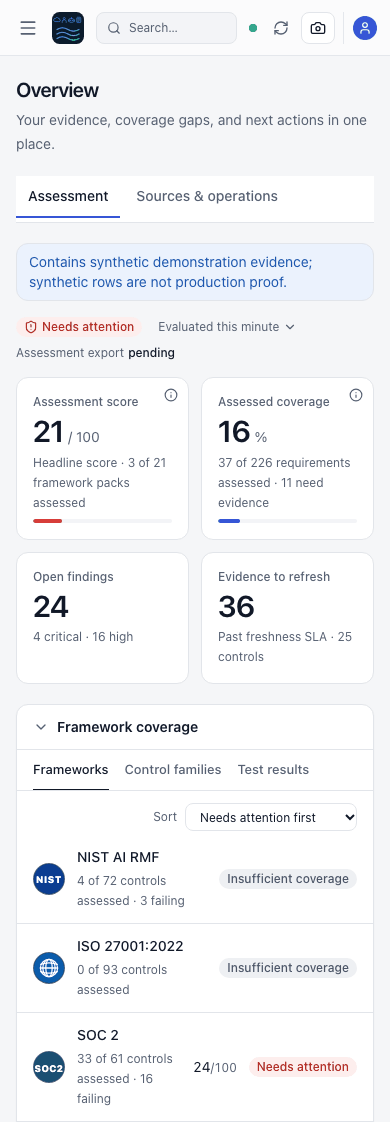
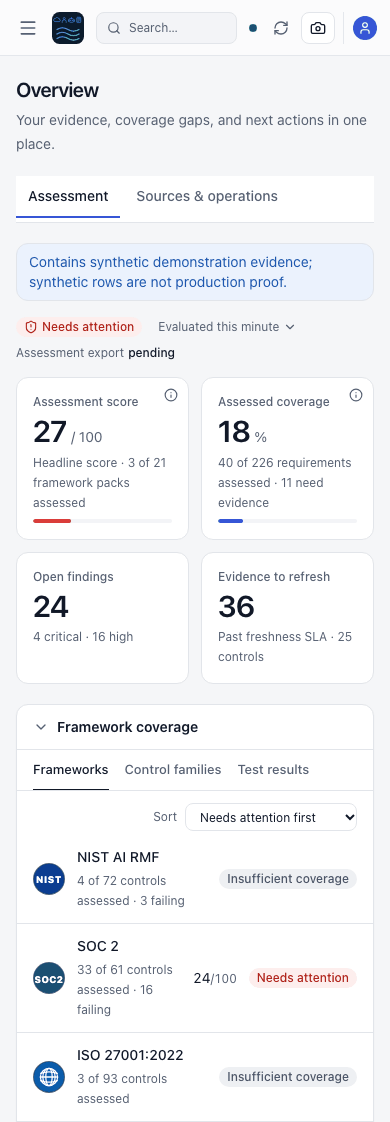
fix(demo): bind golden evidence to reviewed safeguards so the demo reaches attested passes
The golden demo never showed a framework (CCF) pass: no golden event
carried safeguard_ids, so every requirement was not_evaluated or
unmapped and the console read "8 control tests passing - 0 attested".

SOC2-CC6.1 cannot honestly pass: SG-IDENTITY-001 must assess every
observed iam_role asset, and all five golden iam_role assets carry open
high-severity access reviews. Instead, add synthetic ISO 27001 assessor
records for A.5.13, A.5.28 and A.8.17. Each record has the evidence type
its safeguard requires, binds to that requirement's only safeguard
(maintainer reviewed), and sits on the one service asset those
safeguards accept. The records come from the generator, so
`fixtures write-golden` keeps them.

Evaluation rules, safeguard definitions and review states are
unchanged. The demo keeps its failing, stale and unattested controls.

diff --git a/app/web/e2e/control-attestation.spec.ts b/app/web/e2e/control-attestation.spec.ts
@@ -102,6 +102,45 @@ test("framework detail leads with attested passes, not control test passes", asy
   );
 });
 
+// ISO27001-A.5.28 is the opposite case: a fresh assessor record bound to its
+// only safeguard, whose mapping is maintainer reviewed, so it is attested.
+const ATTESTED_ID = "ISO27001-A.5.28";
+
+test("controls page shows a reviewed safeguard pass as attested", async ({
+  page,
+  request,
+}) => {
+  const body = (await (
+    await request.get("/api/v1/controls?limit=500")
+  ).json()) as {
+    data: Array<{
+      control_id: string;
+      status: string;
+      ccf_status: string;
+      reviewed_safeguard_count: number;
+      proposed_safeguard_count: number;
+    }>;
+  };
+  const control = body.data.find((row) => row.control_id === ATTESTED_ID)!;
+  expect(control.status).toBe("pass");
+  expect(control.ccf_status).toBe("pass");
+  expect(control.reviewed_safeguard_count).toBe(1);
+  expect(control.proposed_safeguard_count).toBe(0);
+
+  await page.setViewportSize({ width: 1440, height: 1000 });
+  await page.goto("/console/controls/");
+  await page.getByPlaceholder(/Search by control id/).fill(ATTESTED_ID);
+  const queue = page.getByRole("region", {
+    name: "Latest control test results",
+  });
+  const row = queue.locator("tbody tr").filter({ hasText: ATTESTED_ID });
+  await expect(row).toContainText("Passing · Attested");
+  await row.click();
+  await expect(page.getByRole("dialog")).toContainText(
+    /1 reviewed · 0 proposed mappings/,
+  );
+});
+
 test("the control drawer counts a single outcome record in the singular", async ({
   page,
   request,

diff --git a/tests/test_golden_fixture.py b/tests/test_golden_fixture.py
@@ -38,7 +38,12 @@ def test_golden_fixture_ships_and_populates_dashboard(tmp_path: Path) -> None:
     fixture = find_fixture(GOLDEN_COMPANY)
     assert fixture is not None
     assert fixture.event_count >= len(golden_control_ids())
-    expected_controls = set(golden_control_ids()) | {"ISO27001-A.5.15"}
+    expected_controls = set(golden_control_ids()) | {
+        "ISO27001-A.5.15",
+        "ISO27001-A.5.13",
+        "ISO27001-A.5.28",
+        "ISO27001-A.8.17",
+    }
     assert set(fixture.controls) == expected_controls
 
     run_pipeline(fixture.raw_path, tmp_path)
@@ -237,3 +242,60 @@ def test_access_review_alias_preserves_raw_type_without_inventing_other_evidence
 
     assert expand_evidence_types("iam.access_review") == ["iam.access_review", "identity.access_review"]
     assert expand_evidence_types("runtime.inference") == ["runtime.inference"]
+
+
+def _jsonl(path: Path) -> list[dict]:
+    return [json.loads(line) for line in path.read_text(encoding="utf-8").splitlines() if line.strip()]
+
+
+def test_golden_demo_reaches_attested_passes_only_through_reviewed_bindings(tmp_path: Path) -> None:
+    """The demo shows the payoff: a few framework passes, each one honestly earned."""
+    from security_lakehouse.ccf_evaluation import binding_applies
+    from security_lakehouse.cli import main
+    from security_lakehouse.safeguards import ATTESTABLE_STATES, effective_review_state
+
+    lake = tmp_path / "lake"
+    assert main(["fixtures", "load", "--company", "golden", "--out", str(lake), "--rebase-times"]) == 0
+    assessment = json.loads((lake / "gold" / "ccf_assessment.json").read_text(encoding="utf-8"))
+    catalog = json.loads((lake / "catalog" / "safeguards.json").read_text(encoding="utf-8"))
+    safeguards = {row["safeguard_id"]: row for row in catalog["safeguards"]}
+    silver = _jsonl(lake / "silver" / "normalized_events.jsonl")
+    freshness = {row["event_id"]: row["status"] for row in _jsonl(lake / "gold" / "evidence_freshness.jsonl")}
+    asset_types: dict[str, set[str]] = {}
+    for row in silver:
+        asset_types.setdefault(row["asset_id"], set()).add(row["asset_type"])
+    safeguard_results = {row["safeguard_id"]: row for row in assessment["safeguards"]}
+
+    passes = [row for row in assessment["requirements"] if row["status"] == "pass"]
+    assert 2 <= len(passes) <= 5, [row["control_id"] for row in passes]
+    for requirement in passes:
+        control_id = requirement["control_id"]
+        assert requirement["pending_mapping_count"] == 0
+        assert requirement["reviewed_safeguard_ids"]
+        for safeguard_id in requirement["reviewed_safeguard_ids"]:
+            definition = safeguards[safeguard_id]
+            member = next(m for m in definition["satisfies"] if m["control_id"] == control_id)
+            assert effective_review_state(member) in ATTESTABLE_STATES
+            result = safeguard_results[safeguard_id]
+            assert result["status"] == "pass"
+            assert result["assessed_asset_count"] == result["applicable_asset_count"] >= 1
+            bound = [row for row in assessment["asset_results"] if row["safeguard_id"] == safeguard_id]
+            assert bound and all(row["status"] == "pass" for row in bound)
+            eligible = set(definition["asset_types"])
+            crosswalk = {m["control_id"] for m in definition["satisfies"]}
+            required = set(definition.get("required_evidence_types") or [])
+            for row in bound:
+                assert binding_applies(asset_types[row["asset_id"]], eligible), row
+                events = [event for event in silver if event["event_id"] in row["event_ids"]]
+                assert events and all(freshness[event["event_id"]] == "fresh" for event in events)
+                assert all(set(event["control_ids"]) <= crosswalk for event in events)
+                assert required <= {kind for event in events for kind in event["evidence_types"]}
+
+    # The payoff reaches the console's control tests, and the demo keeps its
+    # failures, gaps and unattested passes next to it.
+    tests = api_v1.handle_get("/api/v1/control-tests", {"limit": ["500"]}, lake)[1]["data"]
+    attested = {row["control_id"] for row in tests if row["result"] == "pass" and row["ccf_status"] == "pass"}
+    assert attested == {row["control_id"] for row in passes}
+    assert [row for row in tests if row["result"] == "fail"]
+    assert [row for row in tests if row["result"] == "pass" and row["ccf_status"] != "pass"]
+    assert {"not_evaluated", "unmapped"} <= {row["status"] for row in assessment["requirements"]}

diff --git a/src/security_lakehouse/golden_fixture.py b/src/security_lakehouse/golden_fixture.py
@@ -215,6 +215,99 @@ def _repository_events(tenant_id: str) -> list[dict[str, Any]]:
     ]
 
 
+# Assessor records for three ISO 27001 requirements whose only safeguard mapping
+# is maintainer reviewed. Each record carries the evidence type its safeguard
+# requires and binds to the one asset the safeguard accepts (a ``service``), so
+# the demo reaches attested framework passes without loosening any rule.
+_REVIEW_ASSET = {
+    "asset_id": "golden:service:payments-platform",
+    "asset_name": "Payments platform",
+    "asset_type": "service",
+    "environment": "prod",
+    "owner": "grc",
+}
+_REVIEW_TIME = "2026-06-30T12:20:00Z"
+_REVIEW_COLLECTED = "2026-06-30T12:21:00Z"
+_ASSESSOR_REVIEWS = (
+    (
+        "ISO27001-A.5.28",
+        "SG-REVIEW-ISO27001-A-5-28",
+        "review_iso27001_a_5_28",
+        (
+            "authorized evidence collection",
+            "preservation",
+            "custody transfers",
+            "integrity checks",
+            "restricted access",
+            "documented handling",
+        ),
+    ),
+    (
+        "ISO27001-A.8.17",
+        "SG-REVIEW-ISO27001-A-8-17",
+        "review_iso27001_a_8_17",
+        (
+            "approved time sources",
+            "synchronization configuration",
+            "clock offset monitoring",
+            "failure handling",
+            "verification across scoped systems",
+        ),
+    ),
+    (
+        "ISO27001-A.5.13",
+        "SG-REVIEW-ISO27001-A-5-13",
+        "review_iso27001_a_5_13",
+        (
+            "classification-linked labelling rules",
+            "affected information and assets",
+            "implementation samples",
+            "exceptions",
+            "correction of inconsistent labels",
+        ),
+    ),
+)
+
+
+def _assessor_review_events(tenant_id: str) -> list[dict[str, Any]]:
+    """Scoped assessor records, each explicitly bound to its reviewed safeguard."""
+    rows = []
+    for control_id, safeguard_id, evidence_type, tests in _ASSESSOR_REVIEWS:
+        slug = control_id.lower().replace("iso27001-", "").replace(".", "-")
+        rows.append(
+            {
+                "tenant_id": tenant_id,
+                "event_id": f"golden-review-iso27001-{slug}",
+                "event_time": _REVIEW_TIME,
+                "event_type": evidence_type,
+                "source": "internal_audit",
+                "severity": "info",
+                "status": "passed",
+                "entity": dict(_REVIEW_ASSET),
+                "controls": [control_id],
+                "safeguard_ids": [safeguard_id],
+                "evidence": {
+                    "collected_at": _REVIEW_COLLECTED,
+                    "evidence_id": f"ev-golden-review-iso27001-{slug}",
+                    "uri": f"s3://acme-golden-evidence/{control_id}/assessor-review.json",
+                },
+                "attributes": {
+                    "fixture": GOLDEN_COMPANY,
+                    "assessor": "Acme internal audit",
+                    "assessment_period": {"start": "2026-04-01", "end": "2026-06-30"},
+                    "population": "Payments platform production services",
+                    "applicability": "applicable",
+                    "tests": list(tests),
+                    "exceptions": [],
+                    "unmet_checks": [],
+                    "remaining_uncertainty": "Sampled review; population completeness is not established.",
+                    "demo": True,
+                },
+            }
+        )
+    return rows
+
+
 def golden_control_ids() -> list[str]:
     """Return the 37 control IDs the golden fixture is designed to populate."""
     catalog = load_control_catalog()
@@ -340,9 +433,9 @@ def _supplemental_events(primary: list[dict[str, Any]]) -> list[dict[str, Any]]:
 
 
 def build_golden_fixture_rows(*, tenant_id: str = GOLDEN_TENANT_ID) -> list[dict[str, Any]]:
-    """Every row of the committed golden fixture: control events, then repository events."""
+    """Every row of the committed golden fixture: control, repository, then assessor-review events."""
     primary = build_golden_events(tenant_id=tenant_id)
-    rows = primary + _supplemental_events(primary) + _repository_events(tenant_id)
+    rows = primary + _supplemental_events(primary) + _repository_events(tenant_id) + _assessor_review_events(tenant_id)
     errors = validate_raw_events(rows)
     if errors:
         raise ValueError("; ".join(errors))

diff --git a/tests/test_investigation_graph_accuracy.py b/tests/test_investigation_graph_accuracy.py
@@ -48,20 +48,21 @@ def test_control_nodes_carry_ccf_result_and_posture_reasons(golden: Path) -> Non
     assessment = json.loads((golden / "gold/ccf_assessment.json").read_text(encoding="utf-8"))
     requirements = {row["control_id"]: row for row in assessment["requirements"]}
     passing = sorted(cid for cid, row in posture.items() if row["status"] == "pass" and cid in requirements)
-    assert passing, "golden must contain a passing posture row to compare against the CCF result"
-    cid = passing[0]
-    graph = investigation_graph(golden, root="control:" + cid, depth=1)
-    node = next(n for n in graph["nodes"] if n["id"] == "control:" + cid)
-    requirement = requirements[cid]
+    unattested = [cid for cid in passing if requirements[cid]["status"] != "pass"]
+    attested = [cid for cid in passing if requirements[cid]["status"] == "pass"]
+    assert unattested and attested, "golden must contain attested and unattested passing posture rows"
+    for cid in (unattested[0], attested[0]):
+        graph = investigation_graph(golden, root="control:" + cid, depth=1)
+        node = next(n for n in graph["nodes"] if n["id"] == "control:" + cid)
+        requirement = requirements[cid]
 
-    assert node["status"] == "pass"
-    assert node["ccf_status"] == requirement["status"]
-    assert node["ccf_status"] != "pass"
-    assert node["reviewed_safeguard_count"] == len(requirement["reviewed_safeguard_ids"])
-    assert node["proposed_safeguard_count"] == requirement["pending_mapping_count"]
-    assert node["rule_reasons"] == posture[cid]["rule_reasons"]
-    assert node["evaluation_rule"] == posture[cid]["evaluation_rule"]
-    assert node["open_event_count"] == posture[cid]["open_event_count"]
+        assert node["status"] == "pass"
+        assert node["ccf_status"] == requirement["status"]
+        assert node["reviewed_safeguard_count"] == len(requirement["reviewed_safeguard_ids"])
+        assert node["proposed_safeguard_count"] == requirement["pending_mapping_count"]
+        assert node["rule_reasons"] == posture[cid]["rule_reasons"]
+        assert node["evaluation_rule"] == posture[cid]["evaluation_rule"]
+        assert node["open_event_count"] == posture[cid]["open_event_count"]
 
 
 def test_control_without_assessment_or_posture_is_not_evaluated(tmp_path: Path) -> None:

diff --git a/tests/test_golden_output_stability.py b/tests/test_golden_output_stability.py
@@ -18,11 +18,11 @@ from security_lakehouse.golden_fixture import GOLDEN_COMPANY
 from security_lakehouse.pipeline import run_pipeline
 
 EXPECTED_SHA256 = {
[10 lines of base64/hex data omitted]
 }
 
 

diff --git a/tests/test_control_attestation.py b/tests/test_control_attestation.py
@@ -41,7 +41,12 @@ def test_controls_carry_ccf_result_next_to_control_test_status(golden_lake: Path
         assert row["ccf_status"] == requirement["status"]
         assert row["reviewed_safeguard_count"] == len(requirement["reviewed_safeguard_ids"])
         assert row["proposed_safeguard_count"] == requirement["pending_mapping_count"]
-    assert not [row for row in controls.values() if row["status"] == "pass" and row["ccf_status"] == "pass"]
+    # Only the ISO 27001 assessor records bound to reviewed safeguards attest.
+    attested = {cid for cid, row in controls.items() if row["status"] == "pass" and row["ccf_status"] == "pass"}
+    assert attested == {"ISO27001-A.5.13", "ISO27001-A.5.28", "ISO27001-A.8.17"}
+    for control_id in attested:
+        assert requirements[control_id]["pending_mapping_count"] == 0
+        assert requirements[control_id]["reviewed_safeguard_ids"]
 
 
 def test_control_tests_carry_ccf_result_on_streamed_and_sorted_pages(golden_lake: Path) -> None:

diff --git a/tests/test_audit_readiness.py b/tests/test_audit_readiness.py
@@ -346,7 +346,7 @@ def test_golden_audit_framework_counts_match_overview_rule(tmp_path: Path) -> No
     run_pipeline(fixture.raw_path, lake, tenant_id="default")
     frameworks = build_current_posture(lake)["frameworks"]
     by_name = {row["framework"]: row for row in _framework_readiness(frameworks)}
-    assert by_name["ISO 27001:2022"]["assessed_controls"] == 0
+    assert by_name["ISO 27001:2022"]["assessed_controls"] == 3
     for row in frameworks:
         expected = int(row["control_count"]) - int(row.get("not_evaluated_control_count") or 0)
         assert by_name[row["framework"]]["assessed_controls"] == expected

diff --git a/CHANGELOG.md b/CHANGELOG.md
@@ -19,6 +19,8 @@ Python package, Helm chart, and bundled web console.
 
 - Label a mapping whose maintainer review no longer applies (the requirement version changed or an inherited review is invalid) as "Earlier maintainer review · needs re-review" in Mapping review instead of "Maintainer review", since it counts as proposed. Framework badges whose short mark is longer than four characters, such as NIST SP 800-53, show the framework icon at small sizes instead of wrapping the mark onto two lines.
 
+- The golden demo now reaches three attested framework (CCF) passes: synthetic ISO 27001 assessor records for A.5.13, A.5.28 and A.8.17 bind to each requirement's only safeguard, whose mapping is maintainer reviewed, on the one `service` asset those safeguards accept. The Controls page reads "11 of 41 control tests · 3 attested" instead of "0 attested"; evaluation rules, safeguard definitions and review states are unchanged, and the demo keeps its failing, stale and unattested controls.
+
 - Reject incomplete Databricks SQL results before replacing evidence or advancing watermarks. Validate result schemas, row counts and chunk offsets, follow index-only chunk cursors, and record failed reads as partial runs with a collection gap. Malformed chunk links are rejected before requesting them. The adapter remains Preview; the added qualification uses synthetic responses.
 
 - `grc-lake frameworks safeguards --format table` now states how many maintainer-reviewed requirements rest only on legacy reviews with no recorded reviewer, matching the console and README. A release test keeps the README and 5-minute tutorial install pins on a single published version; the tutorial had mixed 0.3.12 and 0.3.13.
